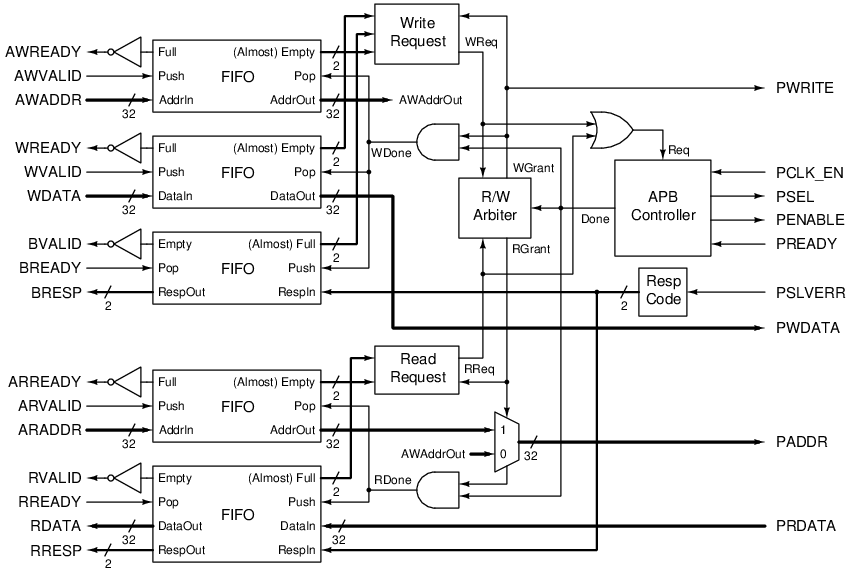
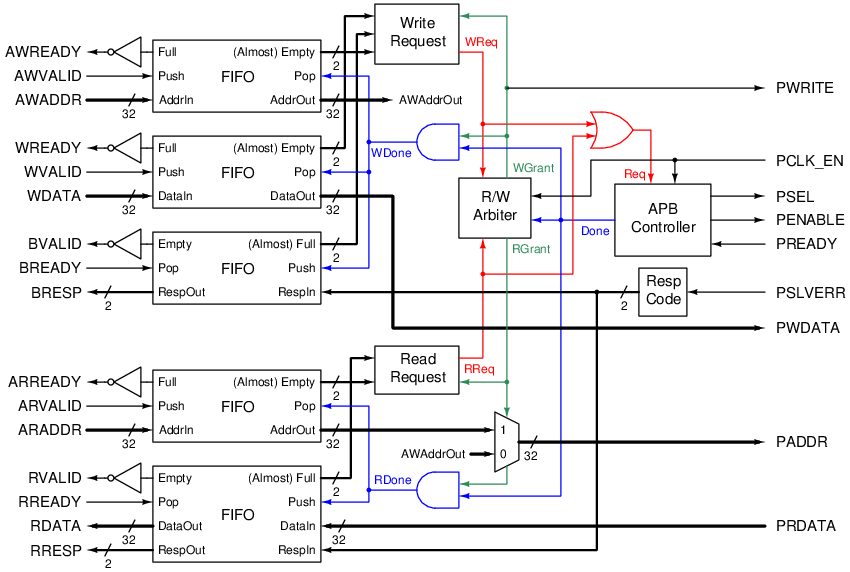
Fix a timing issue in axi_apb_bridge
The R/W arbiter was not synchronized with the APB controller so Req is
changed before it can be registered in the APB controller.

Solution: only transit the R/W arbiter states on p_clk_en.

diff --git a/axi_apb_bridge/README.md b/axi_apb_bridge/README.md
@@ -43,6 +43,7 @@ Same as write request but for `R` and `B` channels.
 #### R/W arbiter
 This module allocates the use of APB controller to process either the read or the write request.
 It is a round-robin arbiter, implemented as the following FSM (dashed lines are default transitions).
+Transitions only happen when `PCLK_EN` is asserted.
 
 ![](figures/rwarbiter.png)
 
